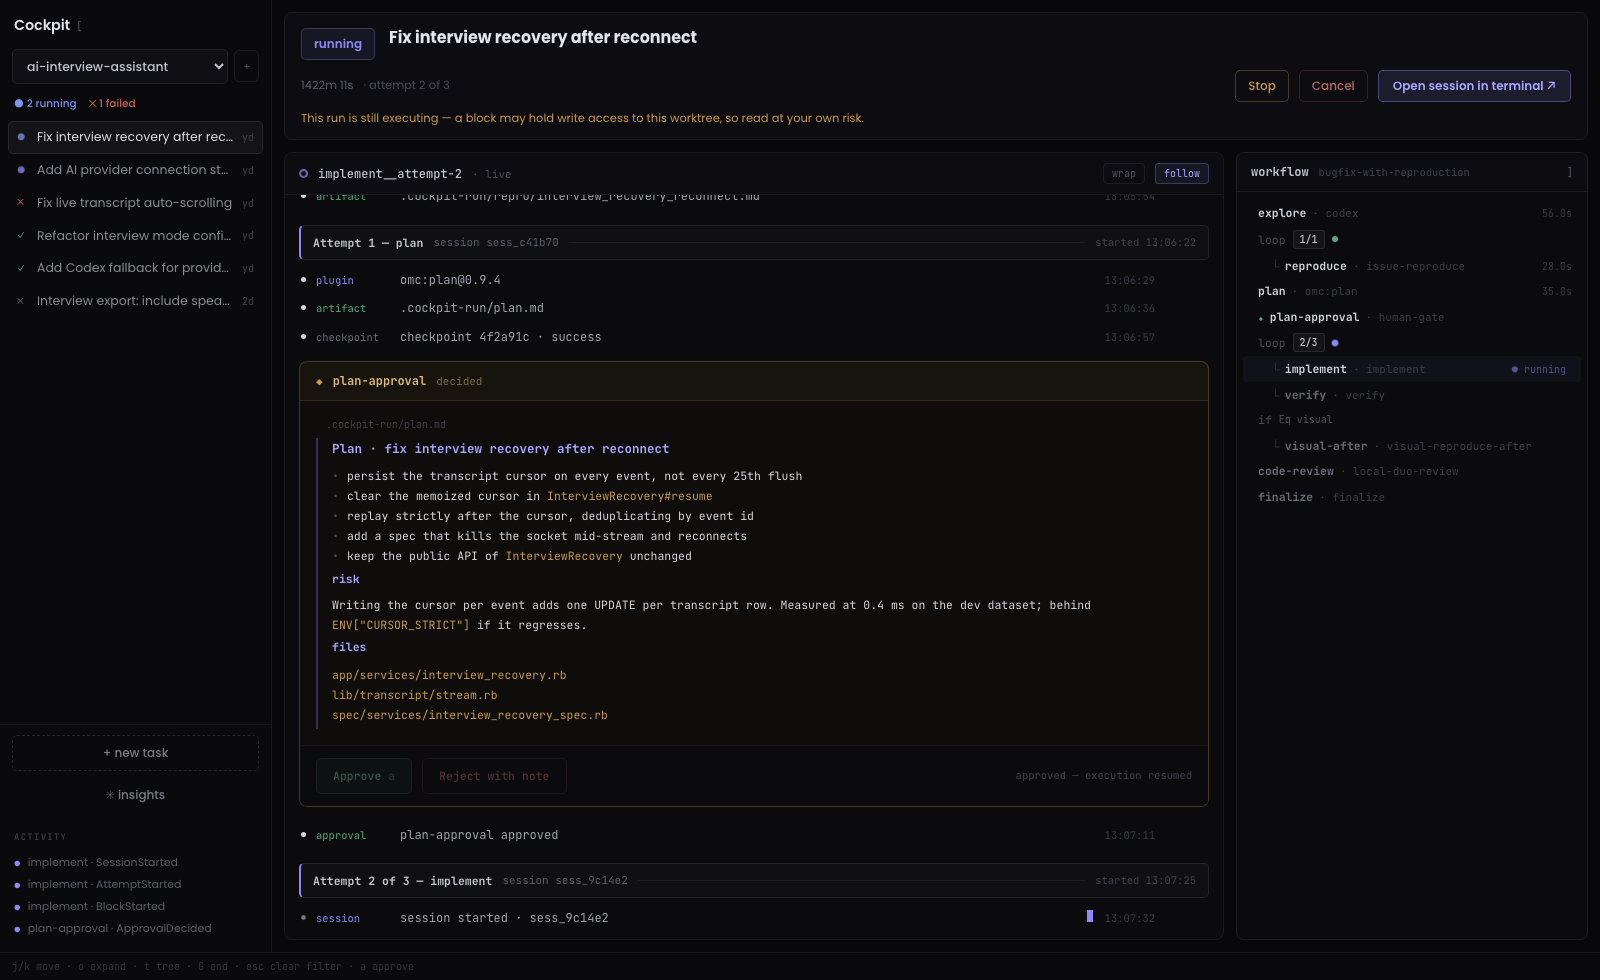
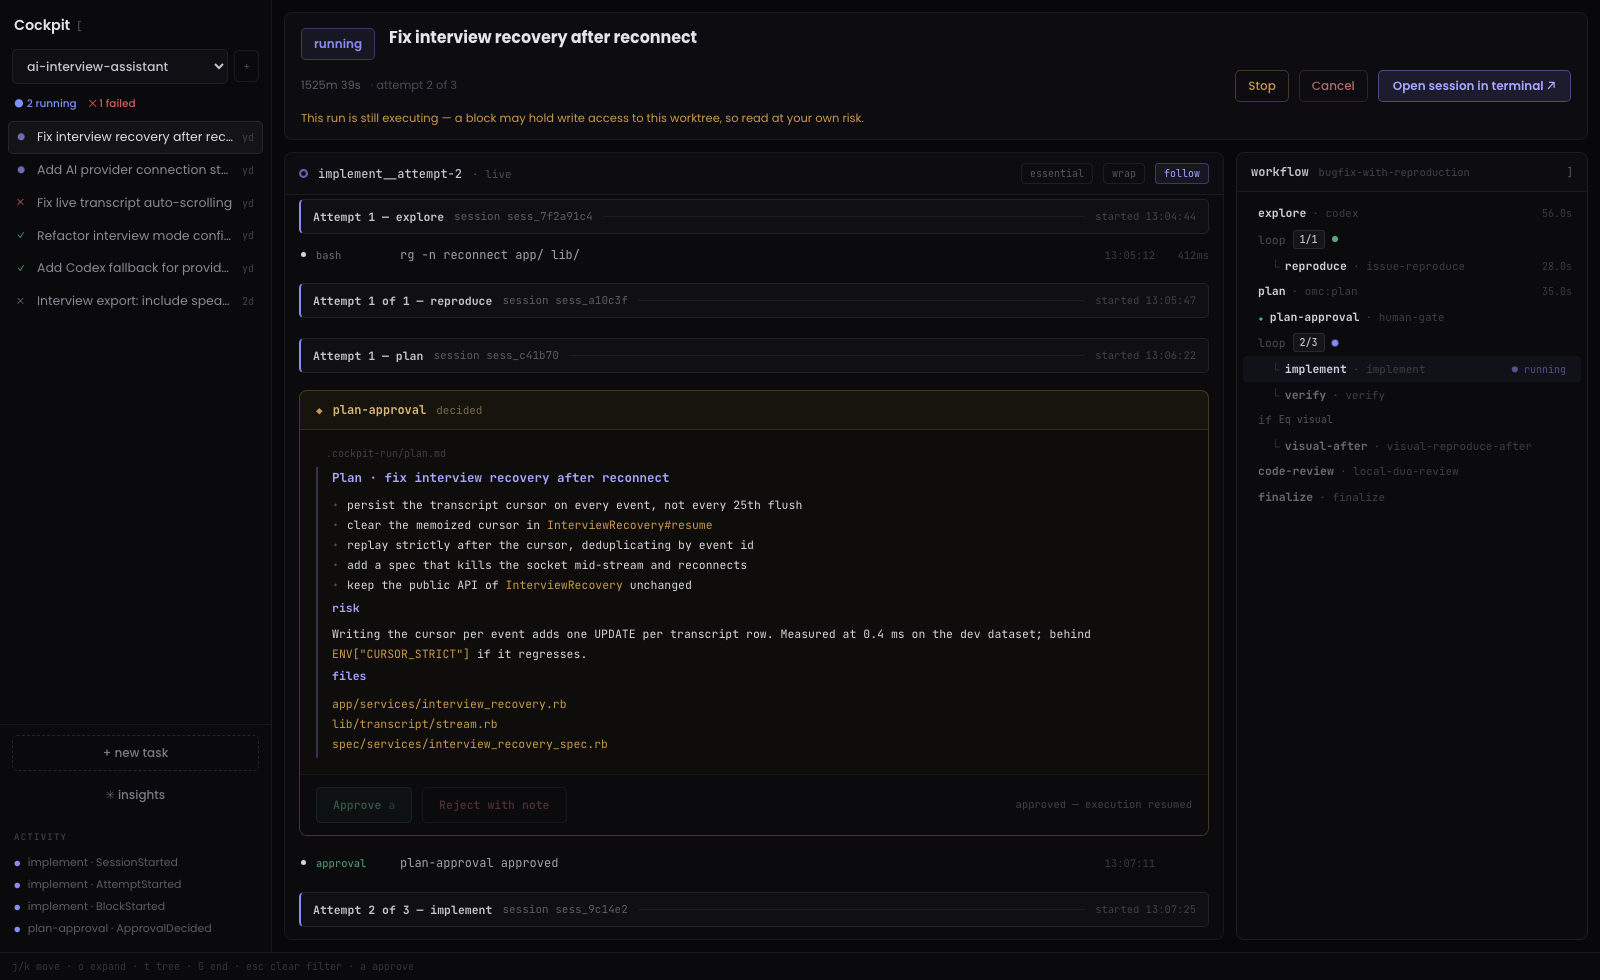
feat(ui): stream essential mode — the run, not the log
buildRows gains a mode: essential hides the narration set (OutputChunk,
AgentActivity, PromptComposed, Session*, ArtifactCreated,
PluginResolved, TreeTransformed, CheckpointCreated, clean
TreeValidated) via a closed hidden list, so unclassified events default
to visible; full mode is byte-identical to the previous stream. The
toggle is component state beside wrap/follow, no persistence; the row
cache needs no invalidation since rows never read the mode. Screenshots
refreshed deliberately — essential drops rows from every fixture — plus
two new mode shots.

Claude-Session: https://claude.ai/code/session_015sWAqMZXvbihPyggTAEjRh

diff --git a/apps/ui/src/presentation.test.ts b/apps/ui/src/presentation.test.ts
@@ -217,12 +217,17 @@ describe("buildRows", () => {
   })
 
   it("hides run and block bookkeeping the other panels already show", () => {
-    const rows = rowsOf(
-      ev({ _tag: "RunCreated", projectId: "p", prompt: "x" }),
-      ev({ _tag: "RunStarted" }),
-      ev({ _tag: "BlockStarted", defId: "codex", kind: "agent" }, "explore"),
-      ev({ _tag: "BlockFinished", status: "succeeded" }, "explore"),
-      ev({ _tag: "SessionStarted", sessionId: "sess_a" }, "explore", "at1"),
+    // Full mode: this test is about the unconditional HIDDEN set, not essential-mode narration hiding.
+    const rows = buildRows(
+      applyEvents(emptyRunState(), [
+        ev({ _tag: "RunCreated", projectId: "p", prompt: "x" }),
+        ev({ _tag: "RunStarted" }),
+        ev({ _tag: "BlockStarted", defId: "codex", kind: "agent" }, "explore"),
+        ev({ _tag: "BlockFinished", status: "succeeded" }, "explore"),
+        ev({ _tag: "SessionStarted", sessionId: "sess_a" }, "explore", "at1"),
+      ]),
+      undefined,
+      "full",
     )
     expect(rows).toHaveLength(1)
     expect(rows[0]?.kind === "event" && rows[0].view.tag).toBe("session")
@@ -257,14 +262,17 @@ describe("buildRows", () => {
   })
 
   it("reuses row objects for events whose rendering did not change", () => {
+    // Full mode: row-cache identity is orthogonal to which mode's hidden set applies.
     const first = applyEvents(emptyRunState(), [
       ev({ _tag: "SessionStarted", sessionId: "sess_a" }, "explore", "at1"),
       ev({ _tag: "AttemptStarted", number: 1 }, "implement", "at2"),
     ])
-    const before = buildRows(first)
+    const before = buildRows(first, undefined, "full")
 
     const after = buildRows(
       applyEvents(first, [ev({ _tag: "CheckpointCreated", checkpointId: "abc", kind: "success" })]),
+      undefined,
+      "full",
     )
     expect(after).toHaveLength(before.length + 1)
     expect(after[0]).toBe(before[0])
@@ -297,11 +305,105 @@ describe("buildRows", () => {
   })
 })
 
+describe("buildRows — stream mode", () => {
+  const narrationEvents = () => [
+    ev({ _tag: "OutputChunk", streamKind: "stdout", excerpt: "chunk 1" }),
+    ev({ _tag: "OutputChunk", streamKind: "stdout", excerpt: "chunk 2" }),
+    ev({ _tag: "OutputChunk", streamKind: "stdout", excerpt: "chunk 3" }),
+    ev({ _tag: "AgentActivity", activity: "explore" }),
+    ev({ _tag: "PromptComposed", promptRef: "art_prompt" }),
+    ev({ _tag: "SessionStarted", sessionId: "s1" }),
+    ev({ _tag: "SessionResumed", sessionId: "s1" }),
+    ev({ _tag: "ArtifactCreated", artifactId: "art_1", kind: "diff", path: "/x", bytes: 12 }),
+    ev({ _tag: "PluginResolved", provider: { name: "codex" }, capabilities: [] }),
+    ev({ _tag: "TreeTransformed", name: "prune", diffRef: "art_diff" }),
+    ev({ _tag: "CheckpointCreated", checkpointId: "c1", kind: "success" }),
+    ev({ _tag: "TreeValidated", errors: [] }),
+  ]
+
+  it("drops an OutputChunk storm and every other narration tag, including a clean TreeValidated", () => {
+    const state = applyEvents(emptyRunState(), narrationEvents())
+    expect(buildRows(state, undefined, "essential")).toHaveLength(0)
+  })
+
+  it("keeps every tag the run's spine depends on", () => {
+    const events = [
+      ev({ _tag: "AttemptStarted", number: 1 }, "implement", "at1"),
+      ev({ _tag: "AttemptFinished", verdict: "semantic-failure" }, "implement", "at1"),
+      ev({ _tag: "ResultProduced", outputInline: { summary: "done" } }, "implement", "at1"),
+      ev(
+        { _tag: "CommandExecuted", argv: ["rspec"], exitCode: 0, timedOut: false, durationMs: 1, success: true },
+        "implement",
+        "at1",
+      ),
+      ev({ _tag: "ErrorRaised", class: "semantic", signature: "s", message: "m" }, "implement", "at1"),
+      ev({ _tag: "QuestionAsked", question: "q?" }, "implement", "at1"),
+      ev({ _tag: "ApprovalRequested", gateId: "g", payloadRef: "art_g" }, "g"),
+      ev({ _tag: "ApprovalDecided", gateId: "g", approved: true }, "g"),
+      ev({ _tag: "RetryScheduled", class: "semantic", nextAttempt: 2, delayMs: 10 }, "implement", "at1"),
+      ev({ _tag: "VerificationReported", criteria: [{ criterion: "a", passed: true }] }, "implement", "at1"),
+      ev({ _tag: "FailureFeedbackForwarded", packetRef: "art_p" }, "implement", "at1"),
+      ev({ _tag: "BlockSkipped", reason: "r" }, "skip-block"),
+      ev({ _tag: "BlockReplayed", defId: "d", reason: "r" }, "replay-block"),
+      ev({ _tag: "TreeAnalyzed", templateId: "t", rationale: "r", decision: {}, fallback: false }),
+      ev({ _tag: "TreeValidated", errors: [{ rule: "r", path: ["a"], message: "bad" }] }),
+      ev({
+        _tag: "RunFinalized",
+        targetBranch: "main",
+        mode: "squash",
+        commit: "abcdef1234",
+        commits: 1,
+        previousTip: "1234567890",
+      }),
+      ev({ _tag: "RunCancelled" }),
+      ev({ _tag: "RunStopped" }),
+      ev({ _tag: "RunRecovered" }),
+      ev({ _tag: "RunResumed" }),
+      ev({ _tag: "RunFinished", status: "succeeded" }),
+      ev({ _tag: "RunAwaitingStart" }),
+    ]
+    const state = applyEvents(emptyRunState(), events)
+    const tagsShown = new Set(buildRows(state, undefined, "essential").map((r) => r.event.payload._tag))
+    for (const e of events)
+      expect(tagsShown, `${e.payload._tag} missing from the essential stream`).toContain(e.payload._tag)
+  })
+
+  it("shows every narration tag in full mode, one row per event — byte-identical to today's output", () => {
+    const events = narrationEvents()
+    const state = applyEvents(emptyRunState(), events)
+    const rows = buildRows(state, undefined, "full")
+    expect(rows.map((r) => r.event.payload._tag)).toEqual(events.map((e) => e.payload._tag))
+  })
+
+  it("still hides run/block bookkeeping in full mode — HIDDEN applies regardless of mode", () => {
+    const rows = buildRows(
+      applyEvents(emptyRunState(), [
+        ev({ _tag: "RunCreated", projectId: "p", prompt: "x" }),
+        ev({ _tag: "RunStarted" }),
+        ev({ _tag: "BlockStarted", defId: "codex", kind: "agent" }, "explore"),
+        ev({ _tag: "BlockFinished", status: "succeeded" }, "explore"),
+      ]),
+      undefined,
+      "full",
+    )
+    expect(rows).toHaveLength(0)
+  })
+
+  it("defaults to essential mode when none is given", () => {
+    expect(rowsOf(ev({ _tag: "OutputChunk", streamKind: "stdout", excerpt: "x" }))).toHaveLength(0)
+  })
+})
+
 describe("filterRows", () => {
   it("keeps only the selected block's rows and restores everything on clear", () => {
-    const rows = rowsOf(
-      ev({ _tag: "SessionStarted", sessionId: "a" }, "explore", "at1"),
-      ev({ _tag: "SessionStarted", sessionId: "b" }, "implement", "at2"),
+    // Full mode: filtering by block is orthogonal to which mode's hidden set applies.
+    const rows = buildRows(
+      applyEvents(emptyRunState(), [
+        ev({ _tag: "SessionStarted", sessionId: "a" }, "explore", "at1"),
+        ev({ _tag: "SessionStarted", sessionId: "b" }, "implement", "at2"),
+      ]),
+      undefined,
+      "full",
     )
     expect(filterRows(rows, "implement")).toHaveLength(1)
     expect(filterRows(rows, null)).toHaveLength(2)

diff --git a/apps/ui/src/presentation.ts b/apps/ui/src/presentation.ts
@@ -247,6 +247,24 @@ const HIDDEN = new Set([
   "QuestionAnswered",
 ])
 
+export type StreamMode = "essential" | "full"
+
+/**
+ * Essential mode additionally hides narration: provenance the tree and the attempt header already
+ * carry, or raw output that has an artifact behind it and a block boundary pointing at it.
+ */
+const ESSENTIAL_HIDDEN = new Set([
+  "OutputChunk",
+  "AgentActivity",
+  "PromptComposed",
+  "SessionStarted",
+  "SessionResumed",
+  "ArtifactCreated",
+  "PluginResolved",
+  "TreeTransformed",
+  "CheckpointCreated",
+])
+
 export type StreamRow =
   | { readonly kind: "event"; readonly key: string; readonly event: JournalEvent; readonly view: EventView }
   | {
@@ -332,6 +350,7 @@ const attemptTitle = (
 export function buildRows(
   state: RunState,
   maxAttempts?: ReadonlyMap<string, number>,
+  mode: StreamMode = "essential",
 ): StreamRow[] {
   const decisions = new Map<string, { approved: boolean; note?: string }>()
   const packets = new Map<string, string>()
@@ -447,9 +466,14 @@ export function buildRows(
           }),
         )
         break
-      default:
-        if (!HIDDEN.has(p._tag))
-          rows.push(cached(e, { kind: "event", key, event: e, view: describe(p) }))
+      default: {
+        if (HIDDEN.has(p._tag)) break
+        if (mode === "essential") {
+          if (ESSENTIAL_HIDDEN.has(p._tag)) break
+          if (p._tag === "TreeValidated" && p.errors.length === 0) break
+        }
+        rows.push(cached(e, { kind: "event", key, event: e, view: describe(p) }))
+      }
     }
   }
   return rows

diff --git a/apps/ui/src/App.tsx b/apps/ui/src/App.tsx
@@ -12,6 +12,7 @@ import {
   resumable,
   RUN_TITLE,
   startable,
+  type StreamMode,
   TERMINAL_TITLE,
   TERMINAL_WAITING_WARNING,
   TERMINAL_WRITE_WARNING,
@@ -55,6 +56,7 @@ export default function App() {
   const [treeOpen, setTreeOpen] = useState(true)
   const [width, setWidth] = useState(() => window.innerWidth)
   const [selectedBlock, setSelectedBlock] = useState<string | null>(null)
+  const [streamMode, setStreamMode] = useState<StreamMode>("essential")
   const [focus, setFocus] = useState(-1)
   const [expanded, setExpanded] = useState<ReadonlySet<string>>(new Set())
   const [busy, setBusy] = useState(false)
@@ -138,7 +140,10 @@ export default function App() {
       ),
     [detail],
   )
-  const allRows = useMemo(() => buildRows(state, maxAttempts), [state, maxAttempts])
+  const allRows = useMemo(
+    () => buildRows(state, maxAttempts, streamMode),
+    [state, maxAttempts, streamMode],
+  )
   const rows = useMemo(() => filterRows(allRows, selectedBlock), [allRows, selectedBlock])
 
   const toggleRow = useCallback((key: string) => {
@@ -502,6 +507,8 @@ export default function App() {
                   sub={isLive ? "live" : state.runStatus === "succeeded" ? "closed" : state.runStatus}
                   filter={selectedBlock}
                   onClearFilter={() => setSelectedBlock(null)}
+                  mode={streamMode}
+                  onModeChange={setStreamMode}
                   focus={focus}
                   onFocus={setFocus}
                   expanded={expanded}

diff --git a/apps/ui/src/Stream.tsx b/apps/ui/src/Stream.tsx
@@ -7,6 +7,7 @@ import {
   fmtDuration,
   TERMINAL_TITLE,
   toneClass,
+  type StreamMode,
   type StreamRow,
 } from "./presentation.js"
 import { Ansi, ArtifactBodyView, Code, Markdown } from "./render.js"
@@ -595,6 +596,8 @@ export interface StreamProps {
   readonly sub: string
   readonly filter: string | null
   readonly onClearFilter: () => void
+  readonly mode: StreamMode
+  readonly onModeChange: (mode: StreamMode) => void
   readonly focus: number
   readonly onFocus: (i: number) => void
   readonly expanded: ReadonlySet<string>
@@ -616,6 +619,8 @@ export function Stream({
   sub,
   filter,
   onClearFilter,
+  mode,
+  onModeChange,
   focus,
   onFocus,
   expanded,
@@ -678,6 +683,17 @@ export function Stream({
           </button>
         )}
         <div className="flex-1" />
+        <button
+          type="button"
+          data-testid="stream-mode"
+          onClick={() => onModeChange(mode === "essential" ? "full" : "essential")}
+          title="essential hides narration the tree and attempt header already carry; full shows every journal row"
+          className={`flex-none rounded-sm border px-2 py-0.5 font-mono text-[10px] ${
+            mode === "full" ? "border-white/18 text-[#c4c4ce]" : "border-white/7 text-[#55555f]"
+          }`}
+        >
+          {mode === "full" ? "full log" : "essential"}
+        </button>
         <button
           type="button"
           onClick={() => setWrap((w) => !w)}

diff --git a/apps/ui/e2e/smoke.spec.ts b/apps/ui/e2e/smoke.spec.ts
@@ -19,8 +19,13 @@ test("boots with three panels and a populated stream", async ({ page }) => {
 
   const rows = page.getByTestId("event-row")
   await expect(rows.first()).toBeVisible()
-  await expect(rows.filter({ hasText: "session started" }).first()).toBeVisible()
+  await expect(rows.filter({ hasText: "rg -n reconnect" }).first()).toBeVisible()
   await expect(page.getByTestId("attempt-header").first()).toBeVisible()
+
+  // Essential mode hides session narration by default; the toggle reveals it.
+  await expect(rows.filter({ hasText: "session started" })).toHaveCount(0)
+  await page.getByTestId("stream-mode").click()
+  await expect(rows.filter({ hasText: "session started" }).first()).toBeVisible()
 })
 
 test("interactive buttons render with a pointer cursor", async ({ page }) => {
@@ -268,6 +273,8 @@ test("a question row takes an answer", async ({ page }) => {
 
 test("expanders render ANSI output and a unified diff", async ({ page }) => {
   await page.goto("/?mock=retry")
+  // Raw output and artifact rows are essential-mode narration; switch to full log to reach them.
+  await page.getByTestId("stream-mode").click()
 
   await page.locator('[data-testid=event-row][data-tag=stdout]').first().click()
   await expect(page.getByTestId("ansi-terminal").first()).toBeVisible()

diff --git a/apps/ui/e2e/screenshots.spec.ts b/apps/ui/e2e/screenshots.spec.ts
@@ -34,3 +34,14 @@ shot("approval", "approval", async (page) => {
 shot("finished", "finished", async (page) => {
   await expect(page.getByTestId("summary-card")).toBeVisible()
 })
+
+shot("stream-essential", "finished", async (page) => {
+  await expect(page.getByTestId("summary-card")).toBeVisible()
+  await expect(page.getByTestId("stream-mode")).toHaveText("essential")
+})
+
+shot("stream-full", "finished", async (page) => {
+  await expect(page.getByTestId("summary-card")).toBeVisible()
+  await page.getByTestId("stream-mode").click()
+  await expect(page.getByTestId("stream-mode")).toHaveText("full log")
+})
